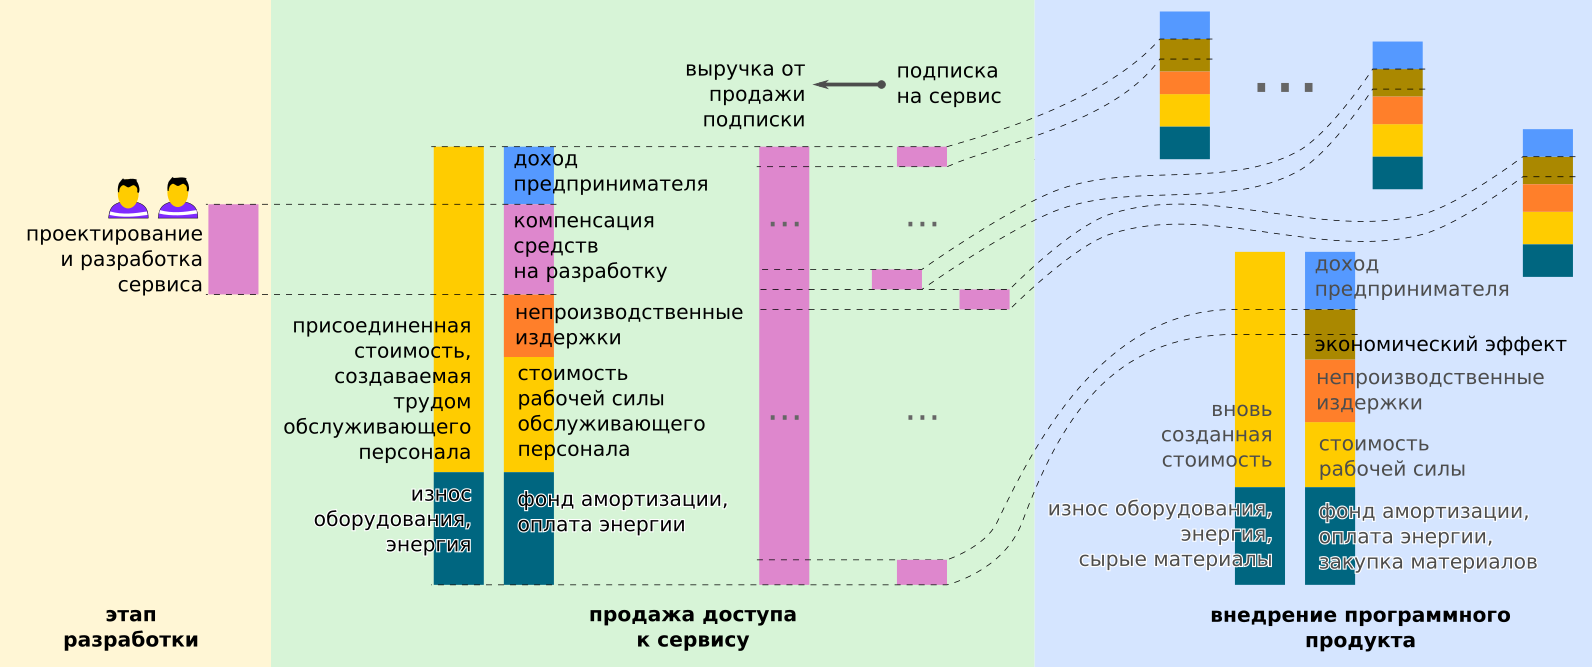
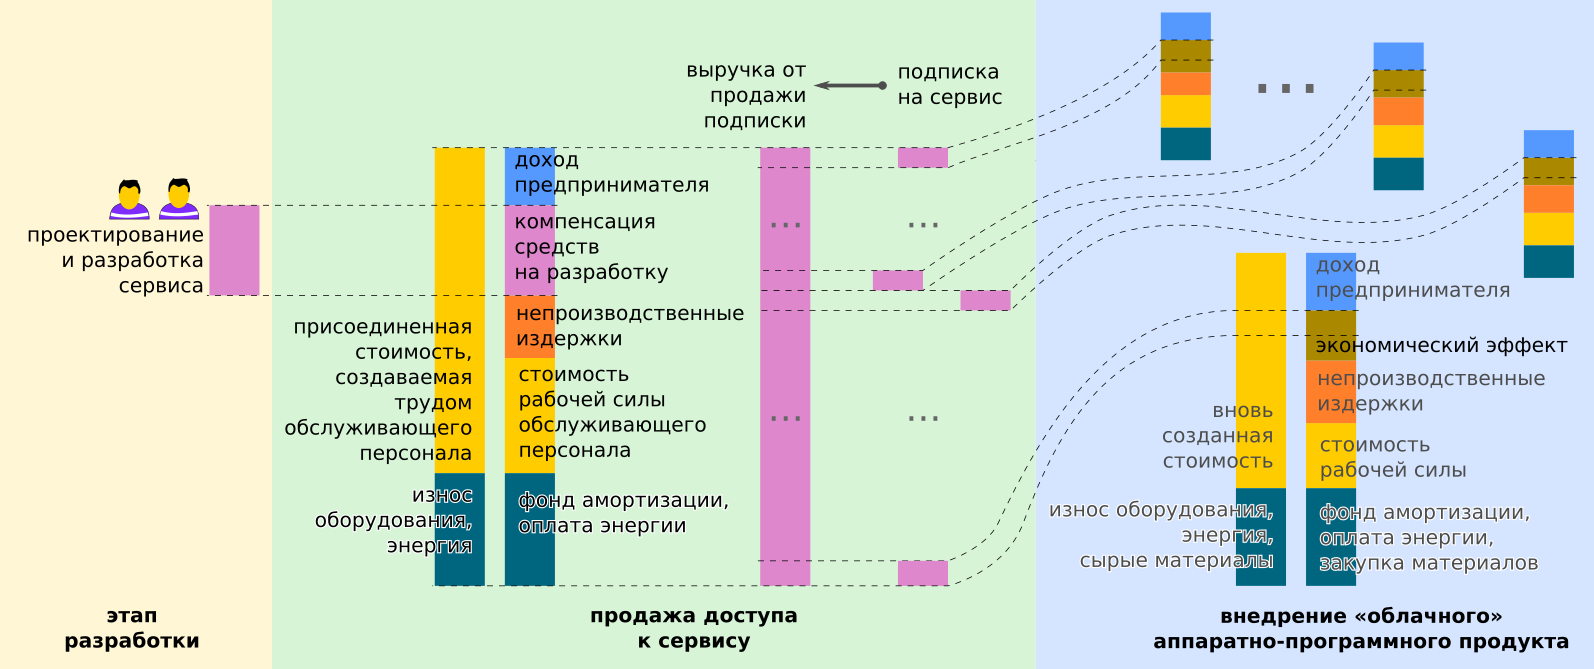
Название: 'технологии' -> 'продукты'; опечатка на картинке saas

diff --git a/src/it-automata-part2-eco-models.tex b/src/it-automata-part2-eco-models.tex
@@ -13,7 +13,7 @@
 
 \usepackage{graphicx}
 
-\title{Экономические модели распространения цифровых технологий}
+\title{Экономические модели распространения цифровых продуктов}
 \author{А.~Е.~Моисеев}
 \date{июнь 2024}
 %\date \today
